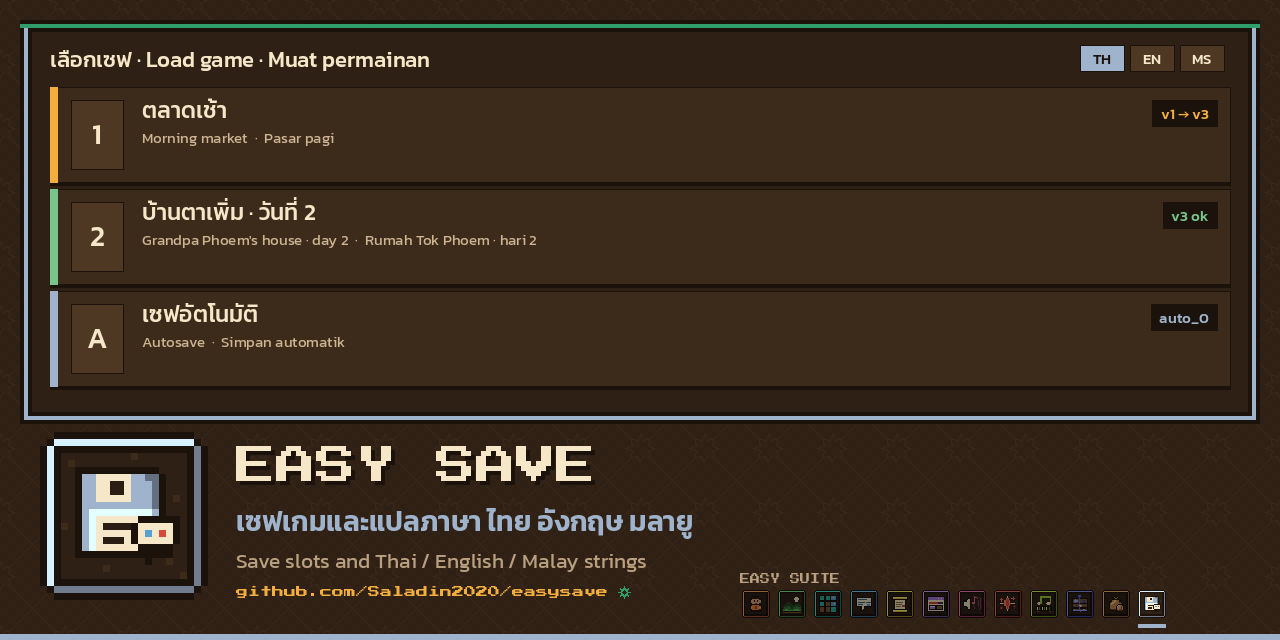
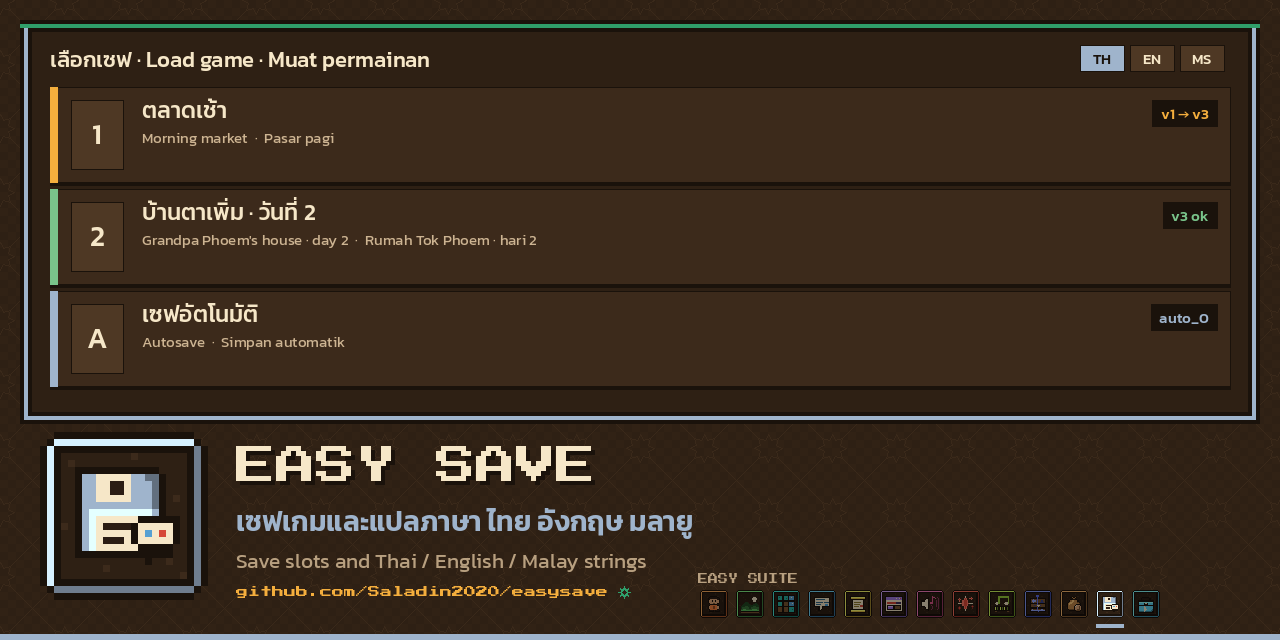
docs: Easy Suite is thirteen tools — 13-tool header strip, suite table and brand assets (adds Easy Kit)

Changed region(s): [[0.5312, 0.875, 0.9062, 1.0]]

diff --git a/docs/brand/README.md b/docs/brand/README.md
@@ -1,7 +1,7 @@
 # Easy Suite brand assets
 
 Generated by the Easy Suite brand scripts (`easy-suite-brand/save_v2.py` on top of `suite12_v2.py`). Same frame,
-palette and fonts across all twelve tools; only the icon and accent colour change. Easy Save uses silver `#9fb4cc`
+palette and fonts across all thirteen tools; only the icon and accent colour change. Easy Save uses silver `#9fb4cc`
 and a floppy disk with a speech bubble (saves + strings); its banner and social art are a save-select screen with
 the same slot labels in Thai, English and Malay (one slot migrated from v1, one autosave).
 
